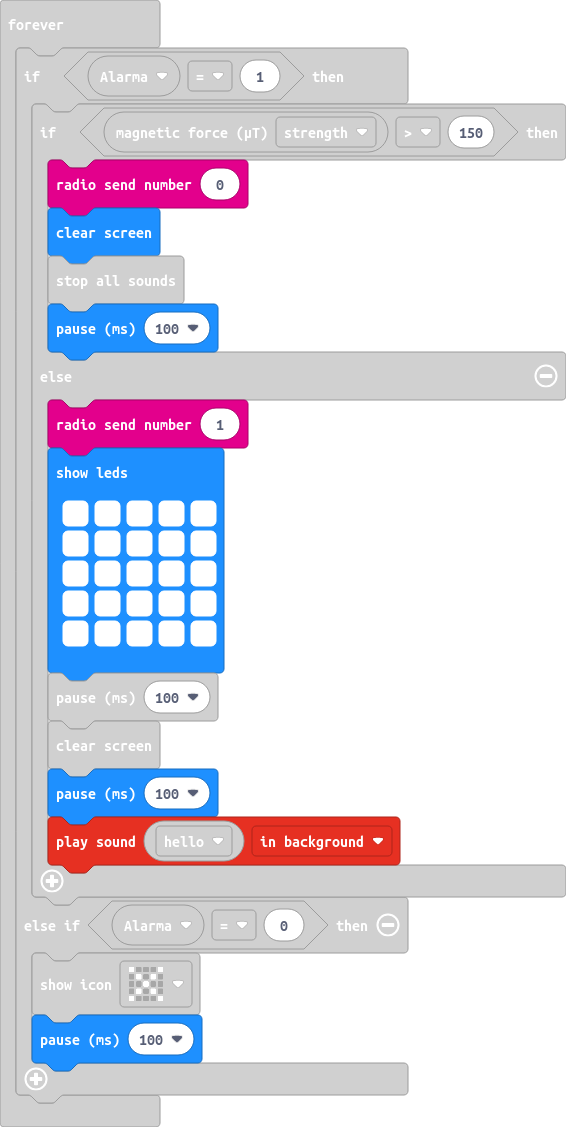
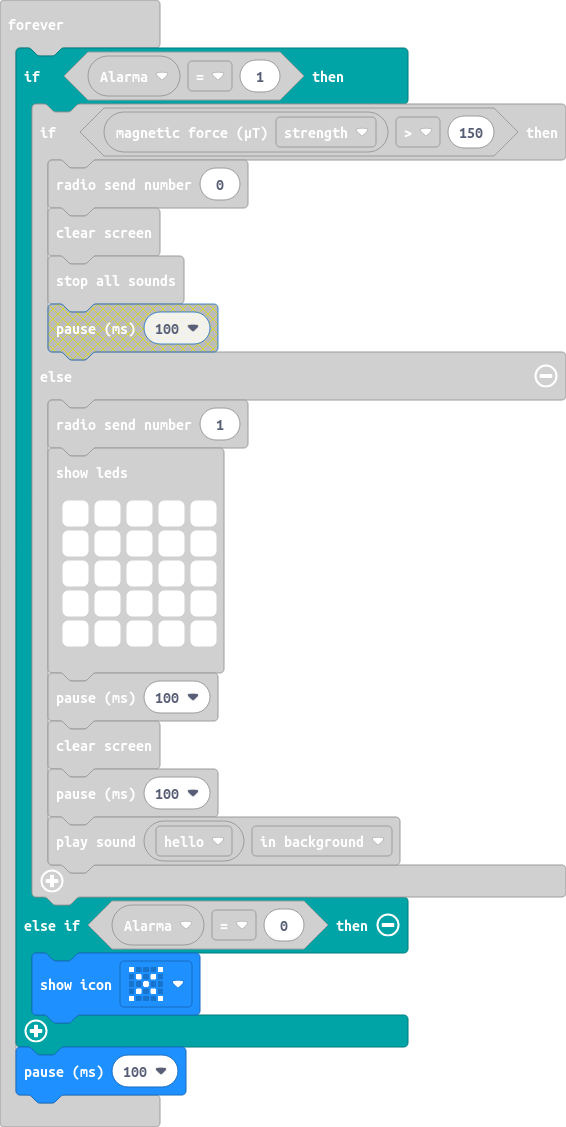
Update main.blocks, main.ts

Changed region(s): [[0.0, 0.0311, 0.7208, 0.9938]]

diff --git a/main.ts b/main.ts
@@ -11,7 +11,6 @@ basic.forever(function () {
             radio.sendNumber(0)
             basic.clearScreen()
             music.stopAllSounds()
-            basic.pause(100)
         } else {
             radio.sendNumber(1)
             basic.showLeds(`
@@ -28,6 +27,6 @@ basic.forever(function () {
         }
     } else if (Alarma == 0) {
         basic.showIcon(IconNames.No)
-        basic.pause(100)
     }
+    basic.pause(100)
 })
